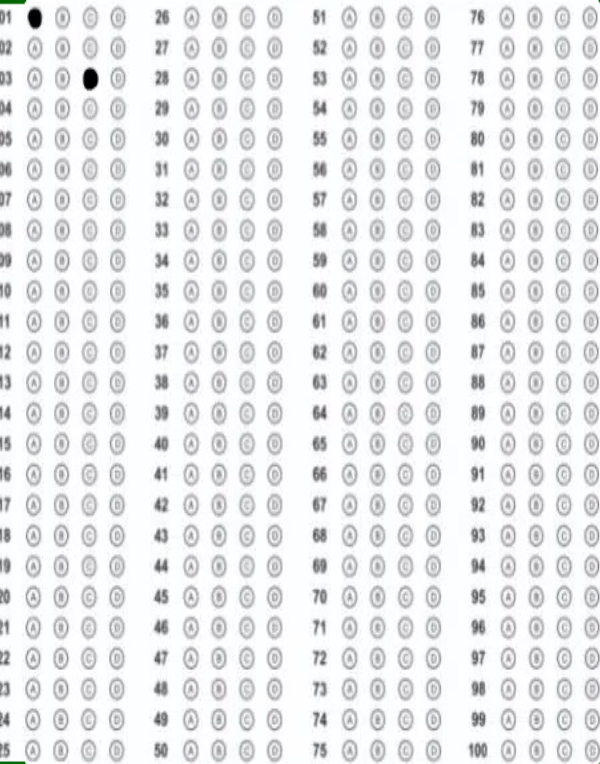
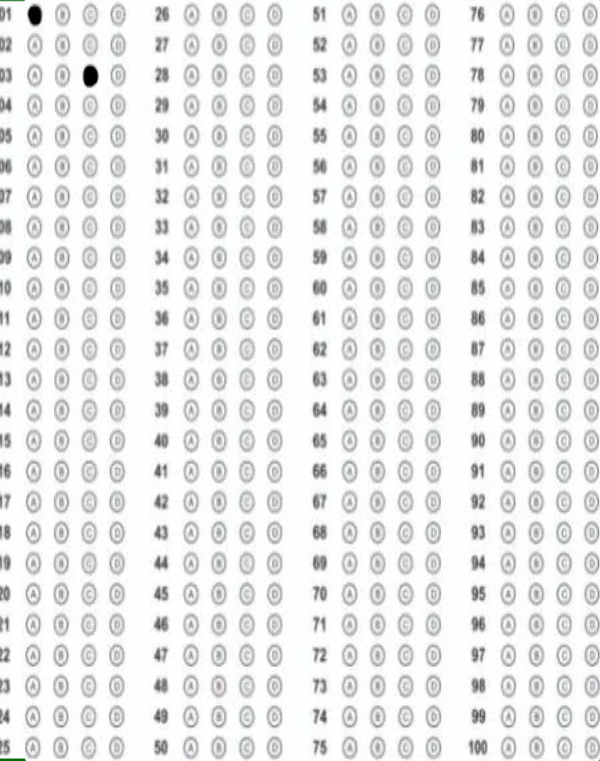
add more space on the left and right

diff --git a/omr-scan-4point.py b/omr-scan-4point.py
@@ -51,14 +51,35 @@ print(points)
 x = [x[0] for x in points]
 y = [y[1] for y in points]
 
+# target_image = target_image[min(y) + template.shape[1] + 3: max(y), min(x): max(x)]
 
 pts1 = np.float32([(54, 312), (508, 312), (56, 724), (506, 724)])
 pts2 = np.float32([[0, 0], [600, 0], [0, 800], [600, 800]])
 
 matrix = cv2.getPerspectiveTransform(pts1, pts2)
 result = cv2.warpPerspective(target_image, matrix, (600, 800))
-result = result[template.shape[1] * 2:, :]
-cv2.imwrite("images/test.png", result)
+result = result[template.shape[1] * 2 + 3:, :]
+# cv2.imwrite("images/test.png", result)
+
+def split_image_times(image, h_times, v_times):
+    # Calculate the split dimensions
+    h_size = int(image.shape[0] / h_times)
+    v_size = int(image.shape[1] / v_times)
+
+    # Split the image
+    images = []
+    for i in range(0, image.shape[0], h_size):
+        for j in range(0, image.shape[1], v_size):
+            images.append(image[i : i + h_size, j : j + v_size])
+
+    return images
+
+images = split_image_times(result, 1, 4)
+
+for i, img in enumerate(images):
+    new_set = split_image_times(img, 25, 1)
+    for x, img_new_set in enumerate(new_set):
+        cv2.imwrite(f"split/split{i}-{x}.png", img_new_set)
 
 # Display the result
 cv2.imshow('Result', result)
